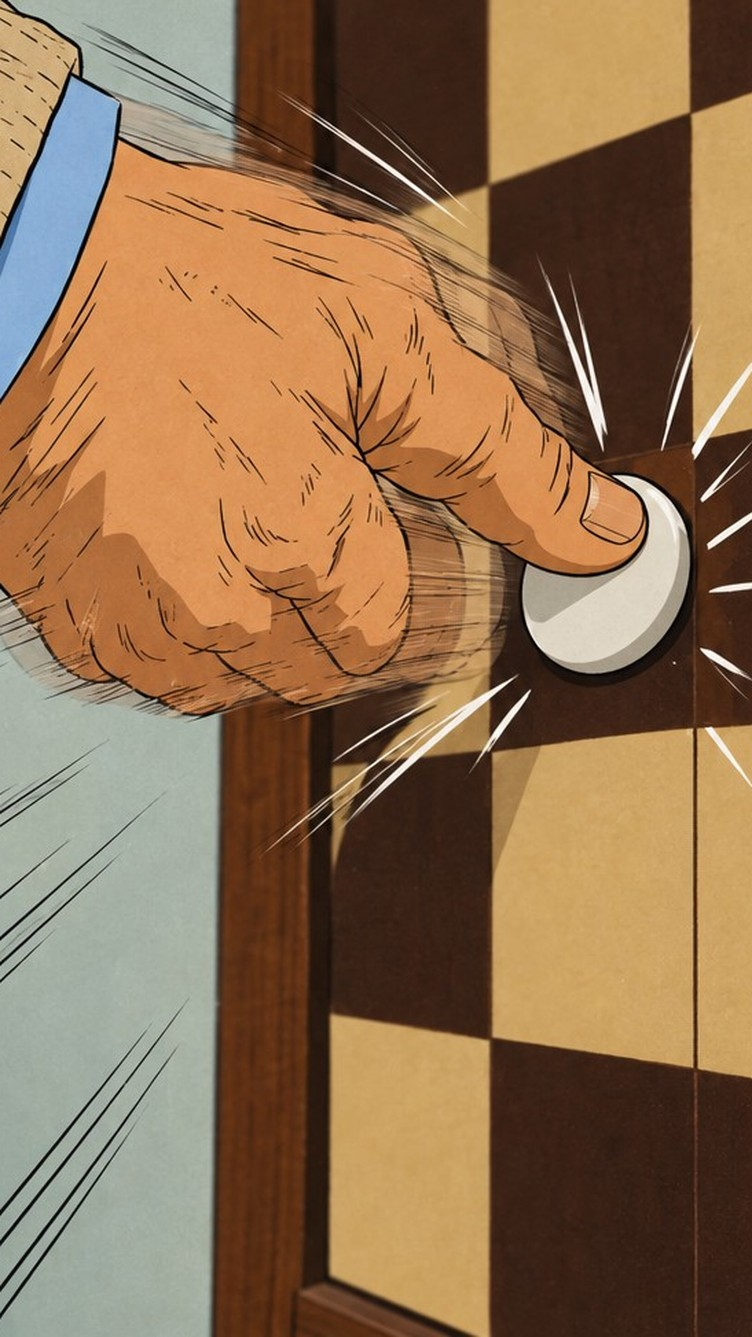
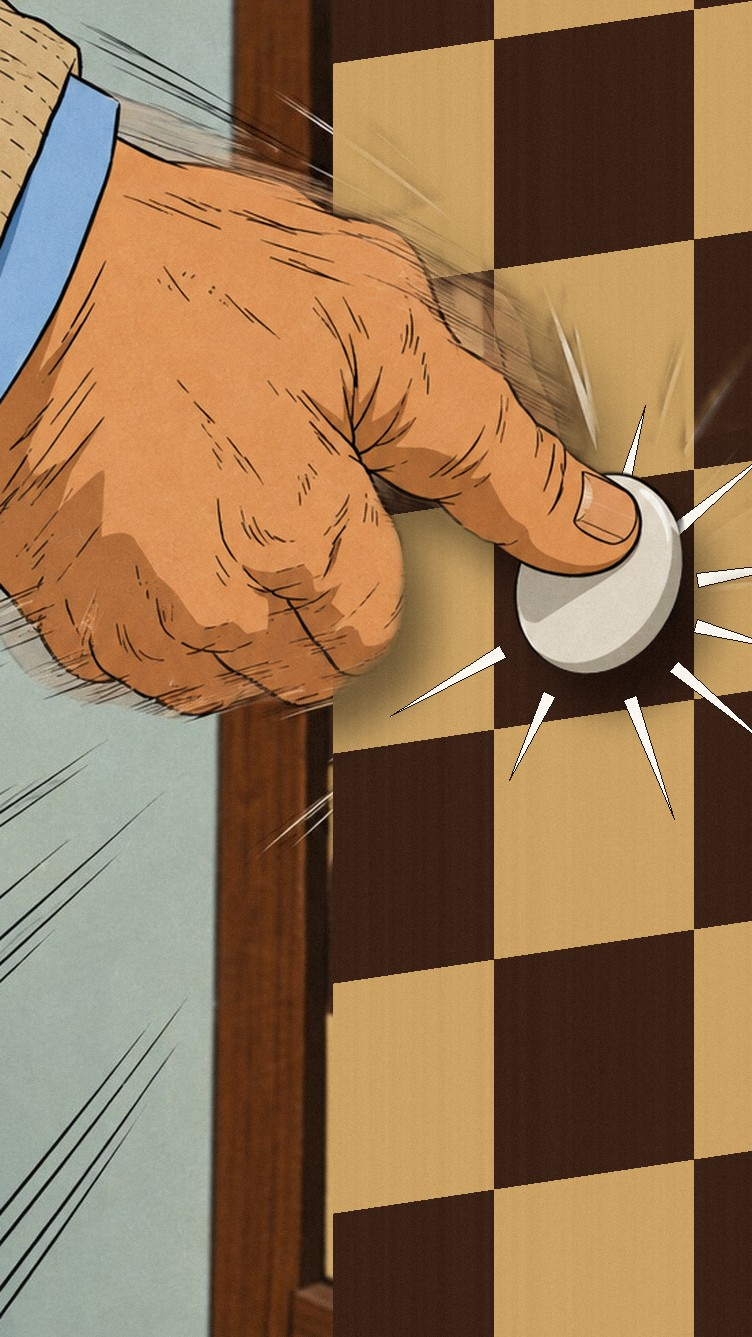
Plans 6 et 12 : damier au motif exact, élèves face au maître
Retours de l'auteur :
- plan 6 : la case foncée sous le pion touchait d'autres cases foncées par les
  côtés. La main et le pion de l'IA sont détourés et posés sur un damier
  redessiné par programme (outils/plans/s01e01_p06.py), pion centré sur sa case
- plan 12 : des élèves tournaient encore le dos au maître. Plan refait : tous
  assis face au maître, ils tournent seulement la tête vers Léo

Bible : règle du damier à vérifier sur chaque image, et règle « les élèves
restent assis face au tableau ».

Claude-Session: https://claude.ai/code/session_01NxWEPB93Gb9pvsVmDWGSdH

diff --git a/outils/plans/s01e01_p06.py b/outils/plans/s01e01_p06.py
@@ -1,0 +1,132 @@
+"""Plan 6 de l'épisode 1 : la main d'Armand pose un pion. On garde la main (détourée par l'IA)
+et on redessine dessous un damier au motif exact.
+
+Le damier généré par l'IA n'était pas un vrai damier : la case foncée sous le pion touchait
+d'autres cases foncées par les côtés. Ici le motif est calculé : la case du pion est foncée,
+ses voisines de côté sont claires, et les cases foncées ne se touchent que par les coins.
+
+Usage : python3 outils/plans/s01e01_p06.py
+"""
+
+from __future__ import annotations
+
+import math
+from pathlib import Path
+
+import numpy as np
+from PIL import Image, ImageDraw, ImageFilter
+
+RACINE = Path(__file__).resolve().parents[2]
+BRUT = RACINE / "visuels/s01e01/brut/p06-mains-v2.jpg"
+DETOURAGE = RACINE / "visuels/s01e01/brut/p06-mains-v2-detoure.png"
+SORTIE = RACINE / "visuels/s01e01/p06-mains.jpg"
+
+# Recadrage du plan (dans l'image brute 752x1344), puis taille finale.
+RECADRAGE = (110, 370, 110 + 553, 1344)
+TAILLE = (752, 1337)
+
+# Le damier, dans l'image finale : bord gauche (cadre en bois), taille des cases, pente des rangées.
+BORD_GAUCHE = 333
+LARGEUR_CASE, HAUTEUR_CASE = 200, 230
+PENTE = -0.15
+
+
+def recadrer(image: Image.Image) -> Image.Image:
+    return image.crop(RECADRAGE).resize(TAILLE, Image.LANCZOS)
+
+
+def couleurs_du_damier(image: np.ndarray, masque_main: np.ndarray) -> tuple[np.ndarray, np.ndarray]:
+    """Les deux couleurs de cases de l'image d'origine (k-moyennes à 2 groupes)."""
+    zone = image[:, BORD_GAUCHE + 15:][masque_main[:, BORD_GAUCHE + 15:] < 10].reshape(-1, 3).astype(float)
+    zone = zone[::7]
+    centres = np.array([np.percentile(zone, 20, axis=0), np.percentile(zone, 80, axis=0)])
+    for _ in range(12):
+        groupe = np.argmin(((zone[:, None, :] - centres[None]) ** 2).sum(-1), axis=1)
+        centres = np.array([np.median(zone[groupe == k], axis=0) for k in range(2)])
+    fonce, clair = sorted(centres, key=lambda c: c.sum())
+    return fonce, clair
+
+
+def centre_du_pion(detourage: np.ndarray) -> tuple[float, float]:
+    """Centre de la plus grande tache presque blanche et opaque du détourage : le pion
+    (les traits d'impact, fins et dispersés, sont écartés)."""
+    import cv2
+
+    rgb, alpha = detourage[..., :3].astype(int), detourage[..., 3]
+    blanc = ((rgb.min(axis=2) > 190) & (alpha > 200)).astype(np.uint8)
+    blanc = cv2.morphologyEx(blanc, cv2.MORPH_OPEN, np.ones((9, 9), np.uint8))
+    _, _, stats, _ = cv2.connectedComponentsWithStats(blanc)
+    plus_grande = 1 + int(np.argmax(stats[1:, cv2.CC_STAT_AREA]))
+    x, y, w, h = (stats[plus_grande][k] for k in (cv2.CC_STAT_LEFT, cv2.CC_STAT_TOP,
+                                                   cv2.CC_STAT_WIDTH, cv2.CC_STAT_HEIGHT))
+    # Le pouce cache le haut du pion : on part de son bord bas et de sa largeur (son diamètre).
+    return x + w / 2, y + h - w / 2
+
+
+def dessiner_damier(fond: np.ndarray, centre: tuple[float, float], fonce, clair) -> np.ndarray:
+    hauteur, largeur, _ = fond.shape
+    ys, xs = np.mgrid[0:hauteur, 0:largeur].astype(float)
+    # La grille est calée pour que le pion soit au centre de sa case, et cette case est foncée.
+    cx, cy = centre
+    colonne = np.floor((xs - cx) / LARGEUR_CASE + 0.5)
+    rangee = np.floor((ys - cy - PENTE * (xs - cx)) / HAUTEUR_CASE + 0.5)
+    est_fonce = ((colonne + rangee) % 2) == 0
+
+    rng = np.random.default_rng(6)
+    veinage = rng.normal(0, 1, (1, largeur)).repeat(hauteur, axis=0)
+    veinage = np.asarray(Image.fromarray(((veinage + 3) * 40).clip(0, 255).astype(np.uint8))
+                         .filter(ImageFilter.GaussianBlur(1.5))).astype(float) / 40 - 3
+    teinte = np.where(est_fonce[..., None], fonce, clair) + veinage[..., None] * 2.5
+    damier = fond.astype(float).copy()
+    zone = xs >= BORD_GAUCHE
+    damier[zone] = teinte[zone]
+    return damier
+
+
+def traits_d_impact(image: Image.Image, centre: tuple[float, float]) -> None:
+    """Traits blancs effilés autour du pion, comme dans l'image d'origine."""
+    d = ImageDraw.Draw(image)
+    cx, cy = centre
+    for angle in (-75, -40, -10, 15, 40, 70, 115, 150):
+        a = math.radians(angle)
+        r0, r1 = 105, 105 + (95 if angle % 2 else 130)
+        pointe = (cx + r1 * math.cos(a), cy + r1 * math.sin(a))
+        base = (cx + r0 * math.cos(a), cy + r0 * math.sin(a))
+        nx, ny = -math.sin(a) * 7, math.cos(a) * 7
+        d.polygon([(base[0] + nx, base[1] + ny), pointe, (base[0] - nx, base[1] - ny)], fill=(250, 248, 240),
+                  outline=(30, 20, 15))
+
+
+def main() -> Path:
+    fond = np.asarray(recadrer(Image.open(BRUT).convert("RGB")))
+    detourage_img = recadrer(Image.open(DETOURAGE).convert("RGBA"))
+    detourage = np.asarray(detourage_img)
+    masque = detourage[..., 3]
+
+    fonce, clair = couleurs_du_damier(fond, masque)
+    centre = centre_du_pion(detourage)
+    damier = dessiner_damier(fond, centre, fonce, clair)
+
+    # Ombre portée de la main sur le damier.
+    ombre = Image.fromarray(masque).transform(TAILLE, Image.AFFINE, (1, 0, -28, 0, 1, -38))
+    ombre = np.asarray(ombre.filter(ImageFilter.GaussianBlur(18))).astype(float) / 255
+    zone = np.zeros(masque.shape, bool)
+    zone[:, BORD_GAUCHE:] = True
+    damier[zone] *= (1 - 0.45 * ombre[zone])[..., None]
+
+    image = Image.fromarray(damier.clip(0, 255).astype(np.uint8))
+    traits_d_impact(image, centre)
+    image = image.convert("RGBA")
+    image.alpha_composite(detourage_img)
+    image = image.convert("RGB")
+
+    bruit = np.random.default_rng(1).normal(0, 3, (TAILLE[1], TAILLE[0], 1))
+    image = Image.fromarray(np.clip(np.asarray(image).astype(float) + bruit, 0, 255).astype(np.uint8))
+    image.save(SORTIE, quality=90)
+    print(f"case foncée sous le pion centré en ({centre[0]:.0f}, {centre[1]:.0f}) ; "
+          f"couleurs foncé {fonce.astype(int)}, clair {clair.astype(int)}")
+    return SORTIE
+
+
+if __name__ == "__main__":
+    print("→", main())

diff --git a/episodes/s01e01-lhomme-au-damier.md b/episodes/s01e01-lhomme-au-damier.md
@@ -65,14 +65,14 @@ Animatique complète (images, sous-titres, voix déjà enregistrées) :
 | 3 | [p03-ennui.jpg](../visuels/s01e01/p03-ennui.jpg) | IA, références Léo + classe |
 | 4 | [p04-porte.jpg](../visuels/s01e01/p04-porte.jpg) | IA, références Armand + classe |
 | 5 | [p05a-baillement.jpg](../visuels/s01e01/p05a-baillement.jpg), [p05b-lunettes.jpg](../visuels/s01e01/p05b-lunettes.jpg) | IA |
-| 6 | [p06-mains.jpg](../visuels/s01e01/p06-mains.jpg) | IA, régénérée puis recadrée (des pions étaient sur des cases claires) |
+| 6 | [p06-mains.jpg](../visuels/s01e01/p06-mains.jpg) | Main et pion de l'IA (détourés) sur un **damier redessiné au motif exact** : [outils/plans/s01e01_p06.py](../outils/plans/s01e01_p06.py) |
 | 7 | [plateau.png](../visuels/positions/s01e01/plateau.png) | **Programme (exact)** |
 | 8 | [p08a-eleves.jpg](../visuels/s01e01/p08a-eleves.jpg) | IA, refaite : caméra à la place du maître, mur du fond derrière les élèves |
 | 8 | [p08b-horloge.jpg](../visuels/s01e01/p08b-horloge.jpg) | IA, pancarte en japonais effacée |
 | 9 | [p09-oeil.jpg](../visuels/s01e01/p09-oeil.jpg) | IA |
 | 10 | [p10-damier-mental.jpg](../visuels/s01e01/p10-damier-mental.jpg) | IA (plan d'ambiance) |
 | 11 | [p11-sueur.jpg](../visuels/s01e01/p11-sueur.jpg) | IA |
-| 12-13 | [p12-main-levee.jpg](../visuels/s01e01/p12-main-levee.jpg) | IA, refaite : par-dessus l'épaule d'Armand, les élèves se retournent vers Léo ; image figée sépia-rouge au montage |
+| 12-13 | [p12-main-levee.jpg](../visuels/s01e01/p12-main-levee.jpg) | IA, refaite deux fois : depuis le bureau d'Armand, tous les élèves assis face au maître tournent la tête vers Léo ; image figée sépia-rouge au montage |
 | 14 | [plateau.png](../visuels/positions/s01e01/plateau.png) | **Programme (exact)** |
 
 Les images brutes de l'IA sont gardées dans [visuels/s01e01/brut/](../visuels/s01e01/brut/).

diff --git a/bible/04-style-visuel.md b/bible/04-style-visuel.md
@@ -109,10 +109,19 @@ l'autre.
   [03-monde-et-dames.md](03-monde-et-dames.md).
 - Une pancarte en japonais sur le mur (plan de l'horloge) : effacée.
 - Des pions sur les cases claires (plan des mains) : plan régénéré en plus serré puis recadré.
+- **Motif de damier faux, repéré par l'auteur** (plan des mains) : la case foncée sous le pion touchait
+  d'autres cases foncées par les côtés. On a gardé la main et le pion de l'IA (détourés) et redessiné
+  le damier dessous par programme ([outils/plans/s01e01_p06.py](../outils/plans/s01e01_p06.py)).
+- **Élèves dans le mauvais sens, repéré par l'auteur** (plan 12, deuxième version) : des élèves du
+  premier rang tournaient le dos au maître pour regarder Léo. Plan refait : tout le monde reste assis
+  face au maître et tourne seulement la tête.
 
 **Leçons :**
 - Plus un damier est grand et lisible à l'image, plus il faut l'incruster par programme. Les gros
   plans sur une seule case passent mieux.
+- **La règle du damier, à vérifier sur chaque image :** une case foncée n'a que des cases claires sur
+  ses quatre côtés ; les cases foncées ne se touchent que par les coins ; les pions ne sont que sur
+  les cases foncées. Dès qu'un damier est net à l'image, on le redessine par programme.
 - **Une image de référence de décor transmet aussi son arrière-plan.** Quand la caméra change de
   sens (contrechamp), ne pas la donner : décrire le mur qu'on doit voir, et préciser où est la
   caméra (« à la place du maître », « par-dessus l'épaule d'Armand »).

diff --git a/README.md b/README.md
@@ -21,7 +21,7 @@ inspiré de l'histoire vraie d'un joueur du Nord de la France.
 | [episodes/](episodes/) | Les scénarios découpés plan par plan (le pilote : épisode 1) |
 | [visuels/concepts/](visuels/concepts/) | Les premières images de style |
 | [visuels/positions/](visuels/positions/) | Les diagrammes exacts des positions (PNG + GIF animé) |
-| [outils/](outils/) | Le moteur de règles, le dessin des positions et le montage des animatiques |
+| [outils/](outils/) | Le moteur de règles, le dessin des positions, le montage des animatiques ; `outils/plans/` : les corrections propres à un plan |
 
 ## Les outils de damier
 
@@ -39,7 +39,8 @@ pas.
 
 ## L'animatique
 
-Il faut aussi `ffmpeg`.
+Il faut aussi `ffmpeg`. Les corrections de `outils/plans/` utilisent en plus NumPy et OpenCV
+(`pip install numpy opencv-python-headless`).
 
 ```bash
 python3 outils/animatique.py episodes/s01e01-test-voix.json   # → montages/s01e01-test-voix.mp4

diff --git a/bible/03-monde-et-dames.md b/bible/03-monde-et-dames.md
@@ -33,6 +33,8 @@ Les vrais noms de villes sont remplacés par des anagrammes. Les joueurs les rec
   **La règle :** si on voit le visage des élèves, la caméra est devant, à la place du maître. On voit
   alors le mur du fond, et les fenêtres sont à gauche de l'image. Le tableau et le damier ne sont
   visibles que dans le dos des élèves.
+  **Les élèves restent assis face au tableau.** Pour regarder un camarade, ils tournent la tête, pas
+  le corps : depuis le maître, personne ne tourne le dos à la caméra.
 - **Le club de Wattresol :** une salle municipale, des tables alignées avec damiers et pendules, une
   cafetière, les coupes sur une étagère, une banderole « Club de dames de Wattresol ».
 - **La cuisine des Vermeulen :** la table en formica où se jouent les duels entre frères.
